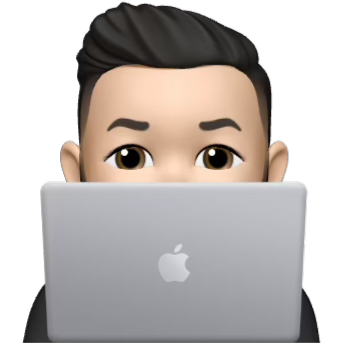
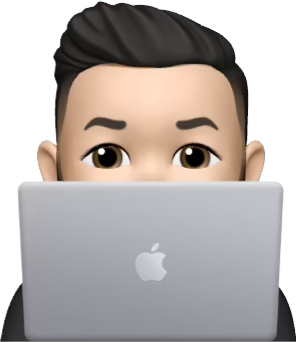
Add Background and fix some styling

diff --git a/portofolio/app/sections/HeroSection.tsx b/portofolio/app/sections/HeroSection.tsx
@@ -1,40 +1,51 @@
 import memojiImage from "../images/memoji.png"
 import ArrowDown from "../images/downArrow.svg"
 import Image from 'next/image'
+import background from '../images/background.png'
 
 const HeroSection = () => {
   return (
-    <div className="py-32">
+    <div className="py-32 md:py-48 lg:py-60 relative z-0">
+
+        {/* Background Image */}
+        <Image 
+            src={background} 
+            alt="Background" 
+            className="absolute inset-0 -z-30 opacity-5 h-screen max-w-[1920px] overflow-hidden">        
+        </Image>
+
         <div className='container'>
 
             <div className="flex flex-col items-center">
                 <Image 
                     src={memojiImage} 
                     alt="Person peeking from behind laptop" 
-                    className="size-[100px]"
+                    className="h-28 w-auto"
                 />
 
-                <div className="bg-gray-950 border border-gray-800 rounded-lg px-1.5 py-1.5">
-                    <div className="text-sm">Marios Polyzoidis</div>
+                <div className="bg-gray-950 border border-gray-800 rounded-lg px-4 py-1.5">
+                    <div className="text-sm font-medium">Marios Polyzoidis</div>
                 </div>
             </div>
+            
+            <div className="max-w-lg mx-auto">
+                <h1 className="text-3xl md:text-5xl text-center mt-8 font-bold tracking-wide">Lorem Ipsum is simply dummy text of the printing and typesetting industry.</h1>
 
-            <h1 className="text-3xl text-center mt-8 font-bold">Lorem Ipsum is simply dummy text of the printing and typesetting industry.</h1>
+                <p className="mt-4 text-center text-white/60 md:text-lg"> 
+                    Lorem Ipsum has been the industry's standard dummy text ever since the 1500s,
+                    when an unknown printer took a galley of type and scrambled it to make a type specimen book.
+                </p> 
+            </div>
 
-            <p> 
-                Lorem Ipsum has been the industry's standard dummy text ever since the 1500s,
-                when an unknown printer took a galley of type and scrambled it to make a type specimen book.
-            </p> 
-
-            <div>
-                <button>
-                    <span>Explore My Work</span>
-                    <ArrowDown className="fill-white"/>
+            <div className="flex flex-col md:flex-row justify-center items-center mt-8 gap-4">
+                <button className="inline-flex items-center gap-2 border border-white/15 px-6 h-12 rounded-xl">
+                    <span className="font-semibold">Explore My Work</span>
+                    <ArrowDown className="fill-white size-4"/>
                 </button>
 
-                <button>
+                <button className="inline-flex items-center gap-2 border border-white bg-white text-gray-800 px-6 h-12 rounded-xl">
                     <span>👋</span>
-                    <span>Contact Me</span>
+                    <span className="font-semibold">Contact Me</span>
                 </button>
             </div>   
 

diff --git a/portofolio/app/components/Navbar.tsx b/portofolio/app/components/Navbar.tsx
@@ -1,11 +1,11 @@
 const Navbar = () => {
     return (
-        <div className="flex justify-center items-center relative top-3">
+        <div className="flex justify-center items-center fixed w-full top-3 z-50">
             <nav className="flex gap-1 p-0.5 border border-white/15 rounded-lg bg-white/10 backdrop-blur">
                 <a href="#" className="nav-item">Home</a>
                 <a href="#" className="nav-item">About</a>
                 <a href="#" className="nav-item">Projects</a>
-                <a href="#" className="nav-item">Contacts</a>
+                <a href="#" className="nav-item">Contact</a>
             </nav>
         </div>
     )
